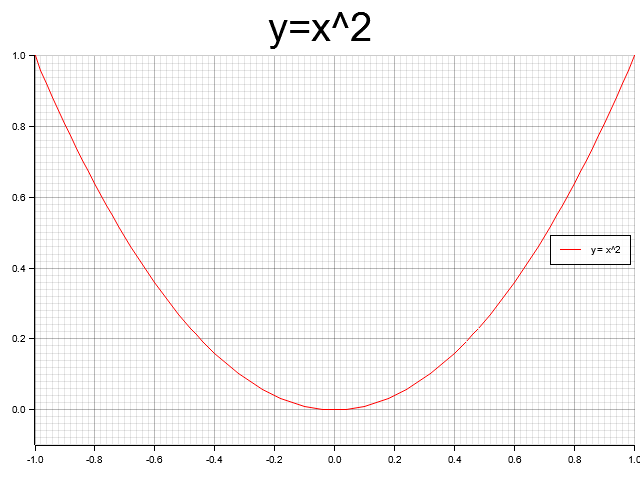
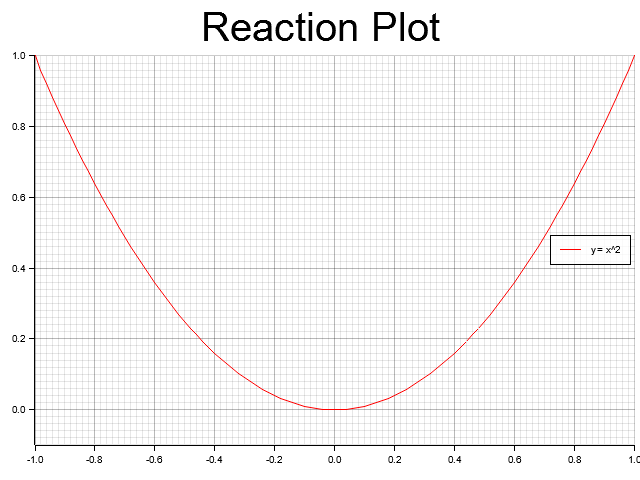
changing boundaryCondition struct to camelcase

Changed region(s): [[0.3125, 0.0, 0.6875, 0.0938]]

diff --git a/src/input/boundary_condition.rs b/src/input/boundary_condition.rs
@@ -1,14 +1,14 @@
 use std::fs;
 
 #[derive(Debug)]
-pub struct Boundary_condition {
+pub struct BoundaryCondition {
 	pub name: String,
 	pub keypoint: String,
 	pub fixture: String, // 0=x-direction, 1=y-direction, 2=both x and y-direction
 }
 
-pub fn parse_boundary_condition(file_path: &str) -> Vec<Boundary_condition> {
-	let mut bcs: Vec<Boundary_condition> = Vec::new();
+pub fn parse_boundary_condition(file_path: &str) -> Vec<BoundaryCondition> {
+	let mut bcs: Vec<BoundaryCondition> = Vec::new();
 
 	let content: String = fs::read_to_string(file_path).unwrap();
 
@@ -23,7 +23,7 @@ pub fn parse_boundary_condition(file_path: &str) -> Vec<Boundary_condition> {
 		let keypoint: String = parts[1].to_string();
 		let fixture: String = parts[2].to_string();
 
-		bcs.push(Boundary_condition {name, keypoint, fixture});
+		bcs.push(BoundaryCondition {name, keypoint, fixture});
 	}
 
 	bcs

diff --git a/src/main.rs b/src/main.rs
@@ -22,7 +22,7 @@ mod output {
 
 use input::keypoint::{parse_keypoint, Keypoint};
 use input::connection::{parse_connection, Connection};
-use input::boundary_condition::{parse_boundary_condition, Boundary_condition};
+use input::boundary_condition::{parse_boundary_condition, BoundaryCondition};
 use input::pointload::{parse_pointload, Pointload};
 use input::material::{parse_material, Material};
 use fe_engine::global_stiffness_matrix::{
@@ -71,5 +71,5 @@ fn main() {
     let resulting_force_vector = calculate_resulting_force_vector(&global_stiffness_matrix, &resulting_displacement_vector);
     println!("Resulting Force Vector:\n{}", resulting_force_vector);
 
-    reaction_plot(kp_list);
+    reaction_plot(&kp_list);
 }

diff --git a/src/output/plots.rs b/src/output/plots.rs
@@ -1,9 +1,11 @@
+use crate::input::keypoint::Keypoint;
+
 use plotters::prelude::*;
-pub fn reaction_plot(kp_list) -> Result<(), Box<dyn std::error::Error>> {
+pub fn reaction_plot(kp_list:&[Keypoint]) -> Result<(), Box<dyn std::error::Error>> {
     let root = BitMapBackend::new("outputs/reaction_plot.png", (640, 480)).into_drawing_area();
     root.fill(&WHITE)?;
     let mut chart = ChartBuilder::on(&root)
-        .caption("y=x^2", ("sans-serif", 50).into_font())
+        .caption("Reaction Plot", ("sans-serif", 50).into_font())
         .margin(5)
         .x_label_area_size(30)
         .y_label_area_size(30)

diff --git a/src/fe_engine/dof_filter_vector.rs b/src/fe_engine/dof_filter_vector.rs
@@ -3,10 +3,10 @@
 
 use nalgebra::{DVector};
 use crate::input::keypoint::Keypoint;
-use crate::input::boundary_condition::Boundary_condition;
+use crate::input::boundary_condition::BoundaryCondition;
 use std::collections::HashMap;
 
-pub fn create_dof_filter_vector(kp_list:&[Keypoint], bc_list:&[Boundary_condition]) -> DVector<f64> {
+pub fn create_dof_filter_vector(kp_list:&[Keypoint], bc_list:&[BoundaryCondition]) -> DVector<f64> {
 	// Creating dict for keypoint force directions and global force vector location.
 	let mut kp_map:HashMap<String, usize> = HashMap::new();
 	let mut number:usize = 0;
